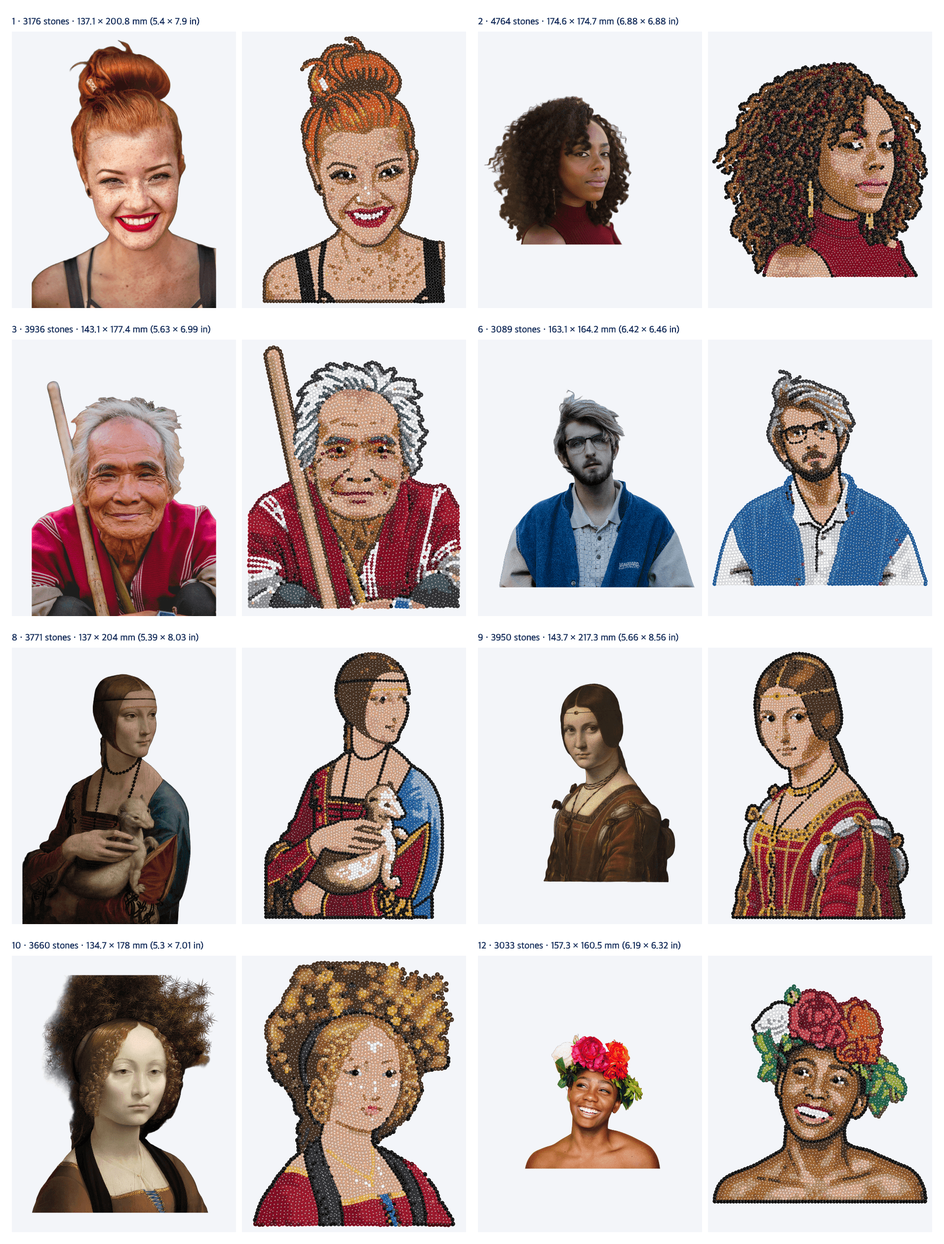
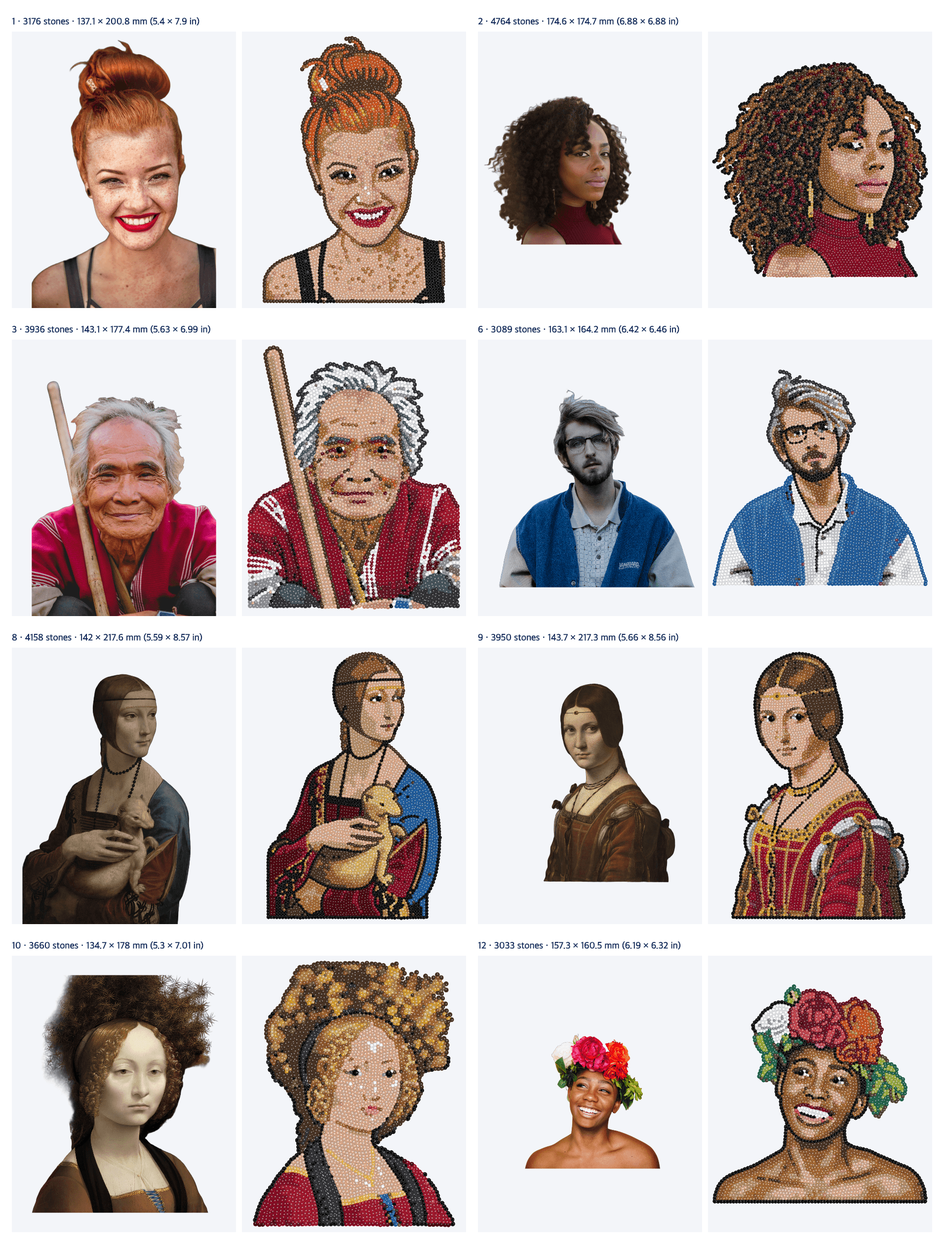
PN-04i: Lady with an Ermine with a cream ermine, listing photo 09
The ermine came out white in every Ermine design (the AI paints the fur
L* about 94; the nearest catalogue stone is Crystal Clear). Only the
ermine was warmed in the listing photo (services/strass/scripts/
ermine_cream.py: hand-drawn polygon less non-fur pixels, a* +1.5,
b* +5; every other pixel unchanged) and the design made again with the
real pipeline, no adjustments, no tuning. Try 1 (a* +4, b* +11) came out
golden and was not kept; try 2 replaces the listing design (4158 stones,
no white on the ermine). 2 provider calls.

New listing photo 09-ermine.jpg: the design alone like photo 00, with
the caption "after Leonardo da Vinci / Lady with an Ermine, c.
1489-1491" (hero() takes an optional caption, kept clear of the stones).
Photos 00-08 unchanged. READMEs, subjects.json, overviews and the photo
test updated.

diff --git a/services/strass/scripts/ermine_cream.py b/services/strass/scripts/ermine_cream.py
@@ -1,0 +1,51 @@
+# IS: new file, not from Rhinestone-Studio.
+"""PN-04i: the listing photo of Lady with an Ermine with only the ermine (the animal) warmed to cream.
+
+    .venv/bin/python -I scripts/ermine_cream.py <8-ermine.jpg> <out.png> [--da=1.5] [--db=5]
+
+Listing photos only (docs/listing/README.md), never a buyer's image. The ermine's mask is a hand-drawn
+polygon (POLY, in a 660 px wide preview's coordinates) less every pixel that is not fur (her hand and
+skin have a* >= 4, the dress more, the sleeve b* < 3), cleaned and feathered. Inside it a* + da and
+b* + db (CIELAB), lightness kept; every pixel outside the mask is unchanged. Written as PNG so nothing
+else is re-encoded. Try 2 of PN-04i used da 1.5, db 5 (try 1, 4 and 11, came out golden).
+"""
+import argparse
+
+import numpy as np
+from PIL import Image, ImageDraw, ImageFilter
+from skimage.color import lab2rgb, rgb2lab
+
+POLY = [(312, 520), (322, 497), (345, 486), (372, 488), (392, 480), (400, 500), (418, 545), (432, 578),
+        (415, 590), (402, 600), (420, 618), (442, 632), (440, 655), (422, 662), (405, 690), (392, 725),
+        (388, 770), (400, 795), (380, 810), (355, 800), (340, 808), (290, 810), (220, 805), (160, 790),
+        (128, 760), (132, 725), (170, 700), (230, 700), (270, 690), (300, 640), (305, 600), (305, 560)]
+
+
+def ermine_mask(lab, size):
+    k = size[0] / 660
+    pm = Image.new("L", size, 0)
+    ImageDraw.Draw(pm).polygon([(x * k, y * k) for x, y in POLY], fill=255)
+    fur = (lab[..., 0] > 8) & (lab[..., 1] < 4) & (lab[..., 2] > 3)
+    m = (np.asarray(pm) > 0) & fur
+    mi = Image.fromarray((m * 255).astype(np.uint8)).filter(ImageFilter.MedianFilter(9)).filter(ImageFilter.GaussianBlur(6))
+    return np.asarray(mi) / 255.0
+
+
+def main():
+    ap = argparse.ArgumentParser()
+    ap.add_argument("src")
+    ap.add_argument("out")
+    ap.add_argument("--da", type=float, default=1.5)
+    ap.add_argument("--db", type=float, default=5.0)
+    a = ap.parse_args()
+    im = Image.open(a.src).convert("RGB")
+    lab = rgb2lab(np.asarray(im) / 255.0)
+    m = ermine_mask(lab, im.size)
+    lab[..., 1] += a.da * m
+    lab[..., 2] += a.db * m
+    out = (np.clip(lab2rgb(lab), 0, 1) * 255 + 0.5).astype(np.uint8)
+    Image.fromarray(out).save(a.out)
+
+
+if __name__ == "__main__":
+    main()

diff --git a/docs/listing/README.md b/docs/listing/README.md
@@ -59,9 +59,23 @@ every time.
 
 | # | Subject | Mode | Stones | Natural size | Photo source | Licence | Use in listing |
 | ---: | --- | --- | ---: | --- | --- | --- | --- |
-| 8 | [painting-ermine](designs/painting-ermine-colour/) | Colour | 3771 | 137 × 204 mm (5.39 × 8.03 in) | [Wikimedia Commons](https://commons.wikimedia.org/wiki/File:Leonardo_da_Vinci_(1452-1519)_-_Lady_with_an_Ermine_%E2%80%93_Portrait_of_Cecilia_Gallerani_(ca._1473%E2%80%931536)_-_MNK_XII-209_-_National_Museum_Krak%C3%B3w.jpg), National Museum in Kraków | Public domain | not decided |
+| 8 | [painting-ermine](designs/painting-ermine-colour/) | Colour | 4158 | 142 × 217.6 mm (5.59 × 8.57 in) | [Wikimedia Commons](https://commons.wikimedia.org/wiki/File:Leonardo_da_Vinci_(1452-1519)_-_Lady_with_an_Ermine_%E2%80%93_Portrait_of_Cecilia_Gallerani_(ca._1473%E2%80%931536)_-_MNK_XII-209_-_National_Museum_Krak%C3%B3w.jpg), National Museum in Kraków | Public domain | yes (photo 09); see PN-04i below |
 | 9 | [painting-ferronniere](designs/painting-ferronniere-colour/) | Colour | 3950 | 143.7 × 217.3 mm (5.66 × 8.56 in) | [Wikimedia Commons](https://commons.wikimedia.org/wiki/File:La_Belle_Ferroni%C3%A8re_-_Google_Arts.jpg), Google Arts & Culture | Public domain | yes, the main photo (the dark brownish-red dress comes out bright red with gold) |
 | 10 | [painting-ginevra](designs/painting-ginevra-colour/) | Colour | 3660 | 134.7 × 178 mm (5.3 × 7.01 in) | [Wikimedia Commons](https://commons.wikimedia.org/wiki/File:Leonardo_da_Vinci_-_Ginevra_de%27_Benci_-_Google_Art_Project.jpg), Google Art Project | Public domain | not decided: white blotches on the face |
+
+### Lady with an Ermine with a cream ermine (PN-04i)
+
+In every Ermine design the ermine came out white: the AI paints its fur a very pale cream (L\* about
+94) and the catalogue's nearest stone is Crystal Clear. To show it cream, only the ermine was warmed
+in the photo: `services/strass/scripts/ermine_cream.py` makes
+`data/listing/candidates/portraits/edited/8-ermine-cream.png` from `8-ermine.jpg` (a hand-drawn
+polygon less every pixel that is not fur; inside it a\* +1.5 and b\* +5; every pixel outside the
+ermine unchanged), and [subjects.json](subjects.json) now uses that file. The design was then made
+with the real pipeline as above (background removal on, no adjustments, no tuning, with PN-04h's
+rule). Try 1 (a\* +4, b\* +11) came out golden and was not kept; try 2 is the listing design. The
+ermine is golden cream rather than white, and the whole picture is a new AI image, so it differs
+from the earlier design elsewhere too. The earlier design is kept in
+`data/listing/replay/before-pn04i/` (not in git).
 
 ### Colour portrait for photo 08 (PN-04g)
 

diff --git a/docs/listing/photos/README.md b/docs/listing/photos/README.md
@@ -5,7 +5,7 @@ Made by `node tools/make-listing-photos.mjs` from the listing designs marked "us
 gives the same files. Each photo is 2700 × 2025 px (4:3), sRGB JPG, under 1 MB; everything that
 matters is at least 80 px inside the centre 2531 × 2025 px, the part Etsy's thumbnail (about 5:4)
 shows. The main photo (00) is the La Belle Ferronnière design (Leonardo da Vinci, public domain; PN-04d) alone, at least 85 % of the photo's height, with
-only the small brand row in the top-left corner and the footer line. The close-up (07) is rendered
+only the small brand row in the top-left corner and the footer line. Photo 09 (PN-04i) is laid out the same way with the Lady with an Ermine design, plus a two-line caption in the top-right corner: "after Leonardo da Vinci" and the painting's title and date. The close-up (07) is rendered
 sharp at 26.5 px per mm from the butterfly design's stones, with the app's own tinted renderer.
 [overview.png](overview.png) shows them all on one sheet.
 
@@ -13,7 +13,7 @@ Text is set in Inter (SIL Open Font License, `tools/fonts/`).
 
 ## Order on Etsy
 
-00 is the main photo, then 01 to 08.
+00 is the main photo, then 01 to 09.
 
 | # | File | Alt text |
 | ---: | --- | --- |
@@ -26,5 +26,6 @@ Text is set in Inter (SIL Open Font License, `tools/fonts/`).
 | 7 | [06-size.jpg](06-size.jpg) | A colour rhinestone template of a stag beetle with dimension lines: 20.4 cm (8.05 in) wide and 9.2 cm (3.63 in) high, 1514 stones, mostly SS6. Each design has its own natural size, usually 13 to 30 cm. |
 | 8 | [07-close-up.jpg](07-close-up.jpg) | A close-up of the butterfly template's wing: single rhinestones in clear yellow areas edged by black lines, with blue, white and green spots. Title: Every stone placed for you. |
 | 9 | [08-portrait.jpg](08-portrait.jpg) | A small colour photo of a smiling young woman with a crown of red, orange and white flowers, an arrow, and the same portrait drawn larger as a colour rhinestone template, every stone shown. Title: Colour portraits from your photo. |
+| 10 | [09-ermine.jpg](09-ermine.jpg) | A colour rhinestone template of Leonardo da Vinci's Lady with an Ermine on white: a woman in a red and blue dress holding a cream ermine, every stone shown. Caption: after Leonardo da Vinci. Digital template, no stones included. |
 
 Every photo except the close-up says "Digital template · no stones included" at the bottom.
